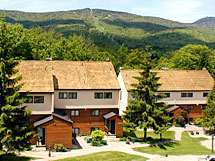
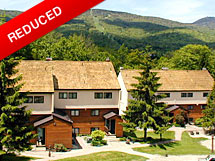
Changed Sales pg. 2
Removed the upper left photo and changed the price and body copy. Changed the bottom left price and added reduced tag to photo.

Changed region(s): [[0.0, 0.0, 0.5023, 0.3727]]

diff --git a/sales2.html b/sales2.html
@@ -75,15 +75,15 @@
               <span class="style4">Click on photos to see full listings</span></p></td>
         </tr>
         <tr valign="top"> 
-          <td width="50%" align="left"><a href="../files/properties/201oldmillroad.pdf" target="_new"></a><img src="files/images/201oldmillroad.jpg" width="215" height="161" border="0"></a><br>
+          <td width="50%" align="left"><a href="http://www.nnerenmls.com/nne/maildoc/sto1843_1308438713-Jun-18-2011-7_11_53pm.html" target="_new"><img src="files/images/61-alpine.jpg" width="215" height="161" border="0"></a><br>
           </font></td>
           <td width="50%" align="left"><a href="files/properties/4180-rt-4.pdf" target="_new"><img src="files/images/4180-rt-4.jpg" alt="Click to see listing" width="215" height="161" border="0"></a><br>
           </font></td>
         </tr>
         <tr valign="top" class="description">
-          <td><h3 class="title">Pinnacle Condo + Bonus</h3>
-						<p>This 1-Bedroom end unit is very tastefully furnished & updated, including a new bathroom. Living room has vaulted celings with fan & long range mountain views.  Summer pool & hot tub.  Winter Club Pinnacle. <strong style="color:red;">BONUS</strong> Buyer of Pinnacle will also receive deed to 1-week September timeshare in 1-BR 2-Bath Falmouth MA condo overlooking Vineyard Sound.</p>
-            <div class="title">EXCLUSIVELY LISTED..................$107,500</div>          
+          <td><h3 class="title">Pico Village Square</h3>
+						<p>Walk out of your door onto Pico ski lifts and ski home from this beautifully maintained and tastefully furnished 3-BR 2-Bath condo with wood-burning fireplace & propane heat. This building is the closest to the lifts and Pico Sports Center is on site!</p>
+            <div class="title">EXCLUSIVELY LISTED..................$227,000</div>          
           </td>
           <td><h3 class="title">A piece of history</h3>
 						<p>Own a piece of Killington's history in this 4 bedroom, 3 bath farmhouse with mother in law apartment with separate entrance. New roof, windows and electric throughout, fully furnished ready for this ski season. Perfect for a 1st time home or a year round vacation home the family will enjoy for years to come with the roaring brook out the back.</p>
@@ -94,14 +94,14 @@
           <td colspan="2" align="center" class="description"> </td>
         </tr>
         <tr valign="top"> 
-          <td align="left"><font size="1"><a href="../files/properties/774eastmtn.pdf" target="_new"><img src="../files/images/774eastmtn.jpg" alt="Click to see listing" width="215" height="161" border="0"></a></td>
+          <td align="left"><font size="1"><a href="../files/properties/774eastmtn.pdf" target="_new"><img src="files/images/774eastmtn.jpg" alt="Click to see listing" width="215" height="161" border="0"></a></td>
           <td width="50%" align="left"><a href="files/properties/526emtn.pdf" target="_new"><img src="files/images/526emtn.jpg" alt="Click to see listing" width="215" height="161" border="0"></a><br>
           </font></td>
         </tr>
         <tr valign="top" class="description">
-          <td><h3 class="title">Edgemont Condominium</h3>
-						<p>Great year-round views from this nicely maintained, fully-furnished  & equipped  2-level 3-Bedroom, 1.5 Bath condominiun with wood-burning fireplace  and two decks.  Ski home from Snowshed & take shuttle bus to lifts.  Motivated Seller.</p>
-						<div class="title">EXCLUSIVELY LISTED..................$198,000</div>
+          <td><h3 class="title">Edgemont Condo</h3>
+						<p>Great year-round views from this nicely maintained, fully-furnished & equipped 2-level <br> 3-Bedroom, 1.5 Bath condominium with wood-burning fireplace  and two decks.  Ski home from Snowshed & take shuttle bus to lifts. Motivated Seller.</p>
+						<div class="title">PRICED TO SELL......................$160,000</div>
 					</td>
           <td class="description">
           	<h3 class="title">Trail Creek</h3>
